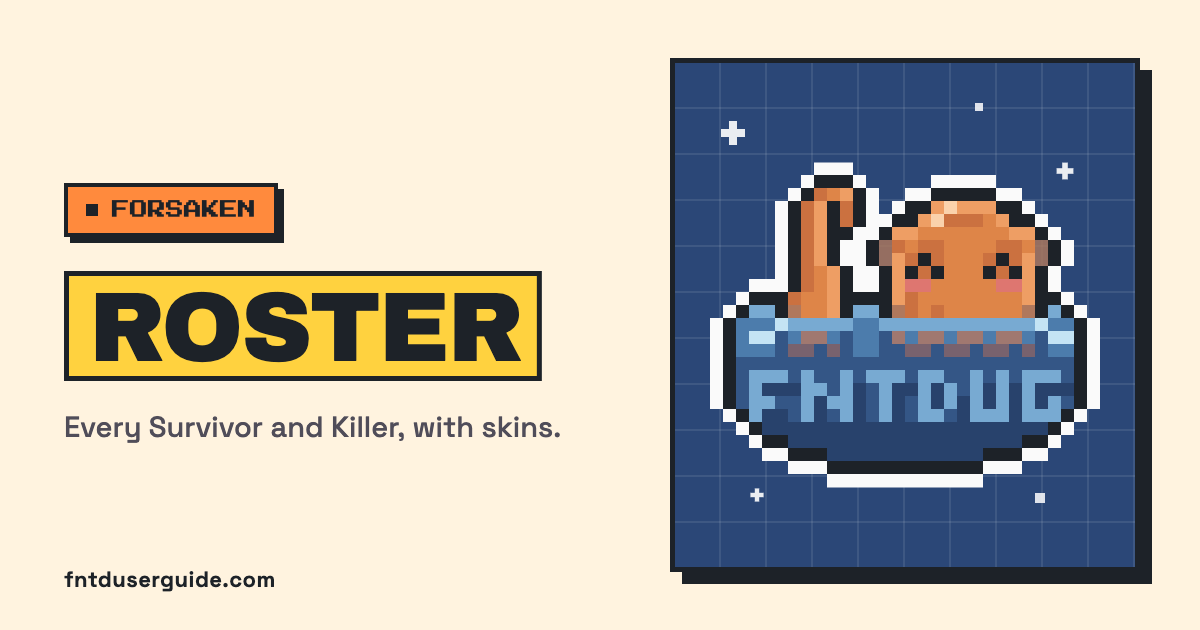
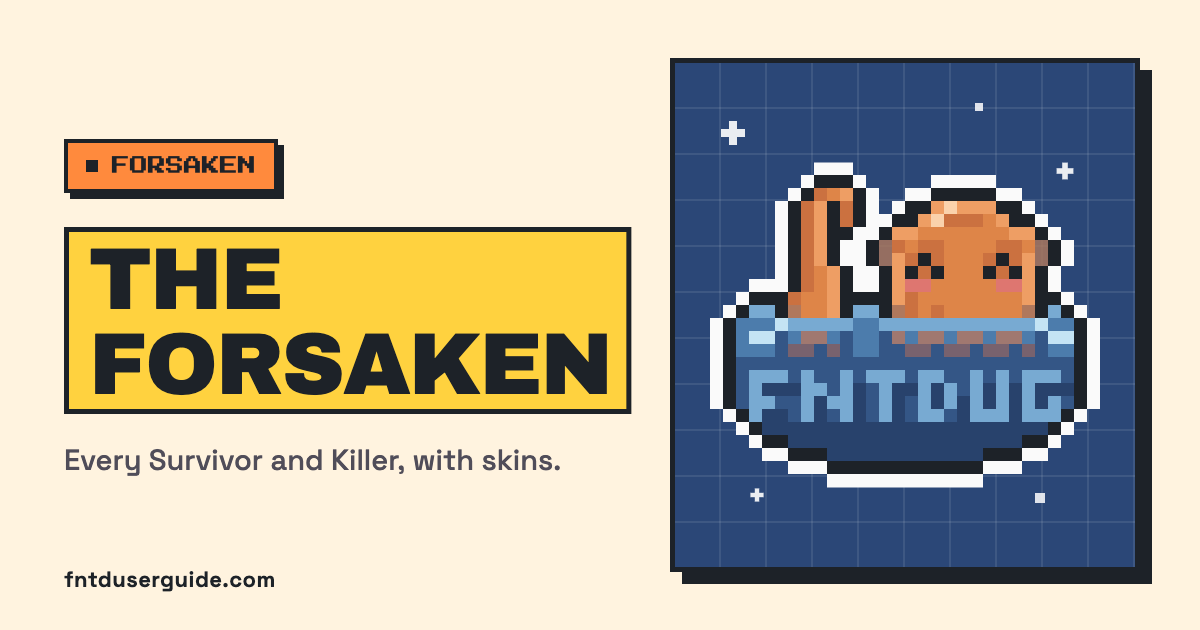
Forsaken: THE FORSAKEN share image, fuller character descriptions

Changed region(s): [[0.0308, 0.2111, 0.5242, 0.754]]

diff --git a/_worker.js b/_worker.js
@@ -3499,7 +3499,7 @@ async function pushSend(request, env) {
 
 const SITE_URL = 'https://www.fntduserguide.com';
 const SITE_NAME = 'FNTD User Guide';
-const SEO_OG_V = 6;
+const SEO_OG_V = 7;
 const SEO_OG_ALT = { home: 'FNTD User Guide: many guides, one hub', fntd1: 'FNTD1 Guide on the FNTD User Guide', fntd2: 'FNTD2 Guide on the FNTD User Guide', 'fntd2-codes': 'FNTD2 Codes on the FNTD User Guide', bbn: 'BBN Guide on the FNTD User Guide', 'bbn-codes': 'BBN Codes on the FNTD User Guide', fwm: 'FWM Roster on the FNTD User Guide', 'fwm-specs': 'FWM Tech Specs on the FNTD User Guide', 'fwm-meta': 'FWM Meta Teams on the FNTD User Guide', 'fwm-tiers': 'FWM TierList on the FNTD User Guide', forsaken: 'The Forsaken on the FNTD User Guide', 'forsaken-tiers': 'Forsaken TierLists & Maps on the FNTD User Guide', 'forsaken-guide': 'Forsaken Guide on the FNTD User Guide', 'fwm-grind-methods': 'FWM Grind Methods on the FNTD User Guide', 'fwm-minigames': 'FWM Minigames on the FNTD User Guide', 'fwm-guide': 'FWM Guide on the FNTD User Guide' };
 function seoOgName(p) {
   if (p === '/fntd2/codes' || p === '/bbn/codes') return p.split('/')[1] + '-codes';
@@ -4612,8 +4612,11 @@ function seoFkMeta(c) {
   for (let i = 1; title.length > 60 && i < tails.length; i++) title = c.name + tails[i];
   const cats = (c.cats || []).filter(Boolean);
   const abs = (c.abilities || []).filter(a => a && a.name && !/ - /.test(a.name)).map(a => seoFkTitleCase(a.name));
-  let desc = c.name + ' is a ' + (cats.length ? cats.join(' and ') + ' ' : '') + seoFkSide(c) + ' in Forsaken on Roblox. ' + (c.health ? 'Health ' + String(c.health).replace(/\s*\(.*$/, '') + ', ' : '') + (abs.length ? 'abilities (' + abs.join(', ') + ')' : 'abilities') + ', cooldowns and every skin.';
-  if (desc.length > 160) desc = c.name + ' is a ' + seoFkSide(c) + ' in Forsaken on Roblox: stats, abilities, cooldowns, voice lines and every skin with how to get it.';
+  const hp = c.health ? 'Health ' + String(c.health).replace(/\s*\(.*$/, '') + ', ' : '';
+  const build = (k, n) => c.name + ' is a ' + (k.length ? (k.length > 1 ? k.slice(0, -1).join(', ') + ' and ' : '') + k[k.length - 1] + ' ' : '') + seoFkSide(c) + ' in Forsaken on Roblox. ' + hp + (n ? 'abilities (' + abs.slice(0, n).join(', ') + (n < abs.length ? ' and more' : '') + ')' : 'abilities') + ', cooldowns and every skin.';
+  let desc = '';
+  for (const k of [cats, cats.slice(0, 2), cats.slice(0, 1), []]) { for (let n = abs.length; n > 0 && !desc; n--) { const t = build(k, n); if (t.length <= 160) desc = t; } if (desc) break; }
+  if (!desc) desc = c.name + ' is a ' + seoFkSide(c) + ' in Forsaken on Roblox: stats, abilities, cooldowns, voice lines and every skin with how to get it.';
   if (desc.length > 160) desc = desc.slice(0, 157).replace(/\s+\S*$/, '') + '...';
   return { title, desc, image: c.card || c.image || '', crumbs: [[SITE_NAME, '/'], ['Forsaken', '/forsaken/forsaken-directory'], ['The Forsaken', '/forsaken/roster'], [c.name, '/forsaken/roster/' + encodeURIComponent(c.id)]] };
 }
